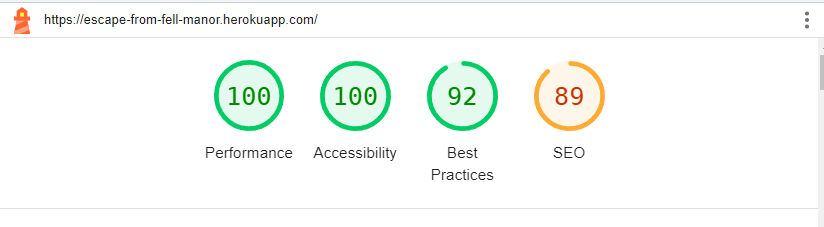
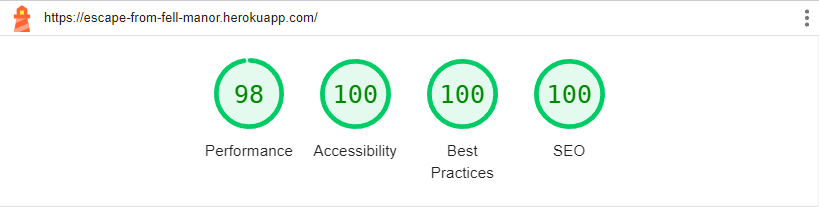
Add updated lighthouse screenshots to TESTING

diff --git a/TESTING.md b/TESTING.md
@@ -26,7 +26,7 @@ I've tested my deployed project using the Lighthouse Audit tool to check for any
 | Page | Size | Screenshot | Notes |
 | --- | --- | --- | --- |
 | Home | Mobile | ![screenshot](documentation/lighthouse-home-mobile.png) | Some minor warnings |
-| Home | Desktop | ![screenshot](documentation/lighthouse-home-desktop.png) | Few warnings |
+| Home | Desktop | ![screenshot](documentation/lighthouse-home-desktop.png) | Some minor warnings |
 
 
 ## Defensive Programming
